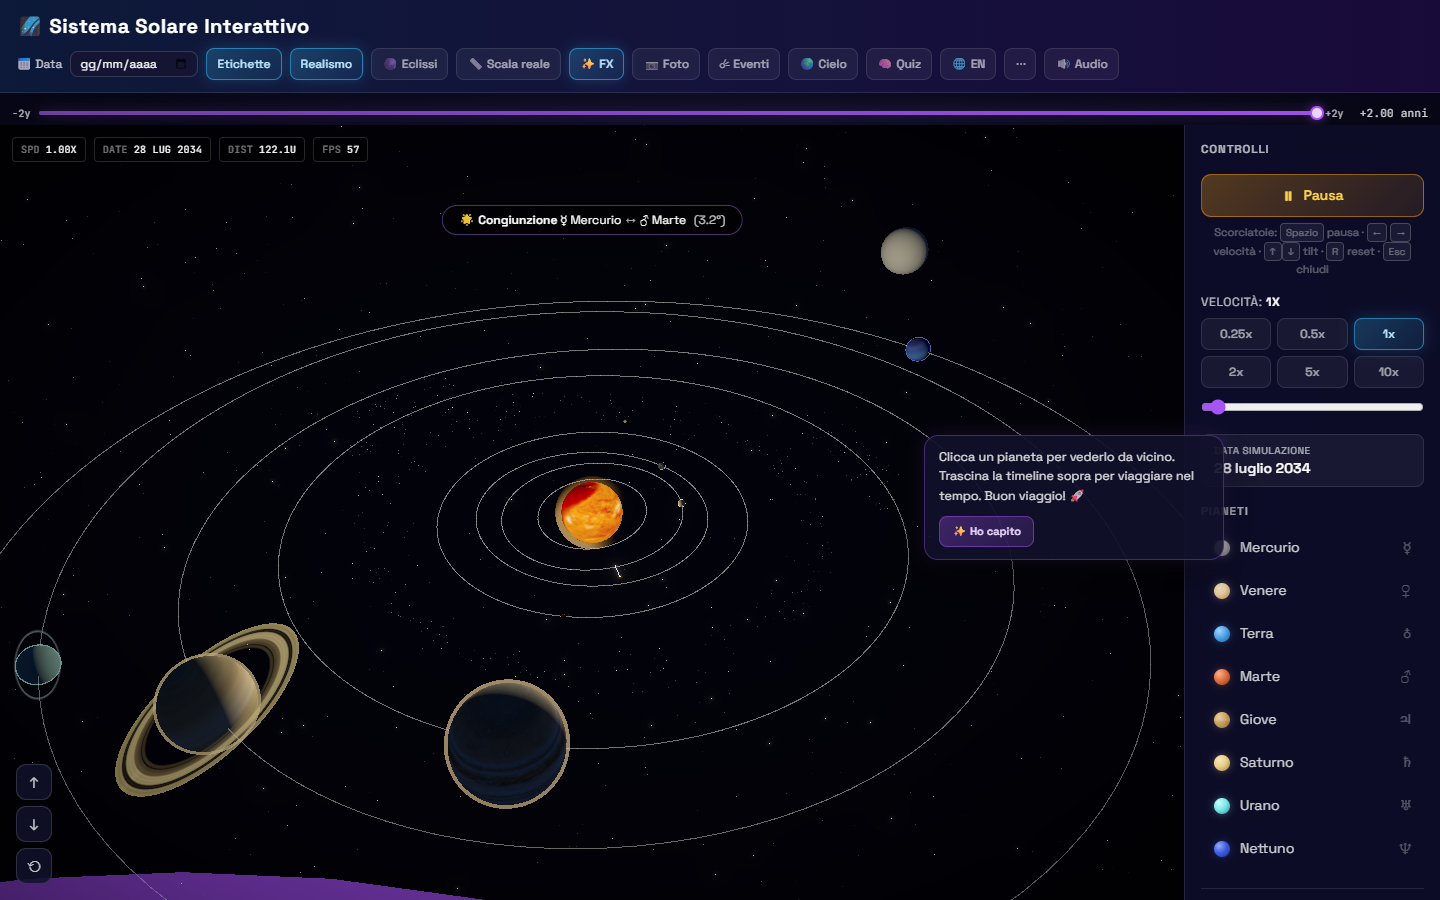
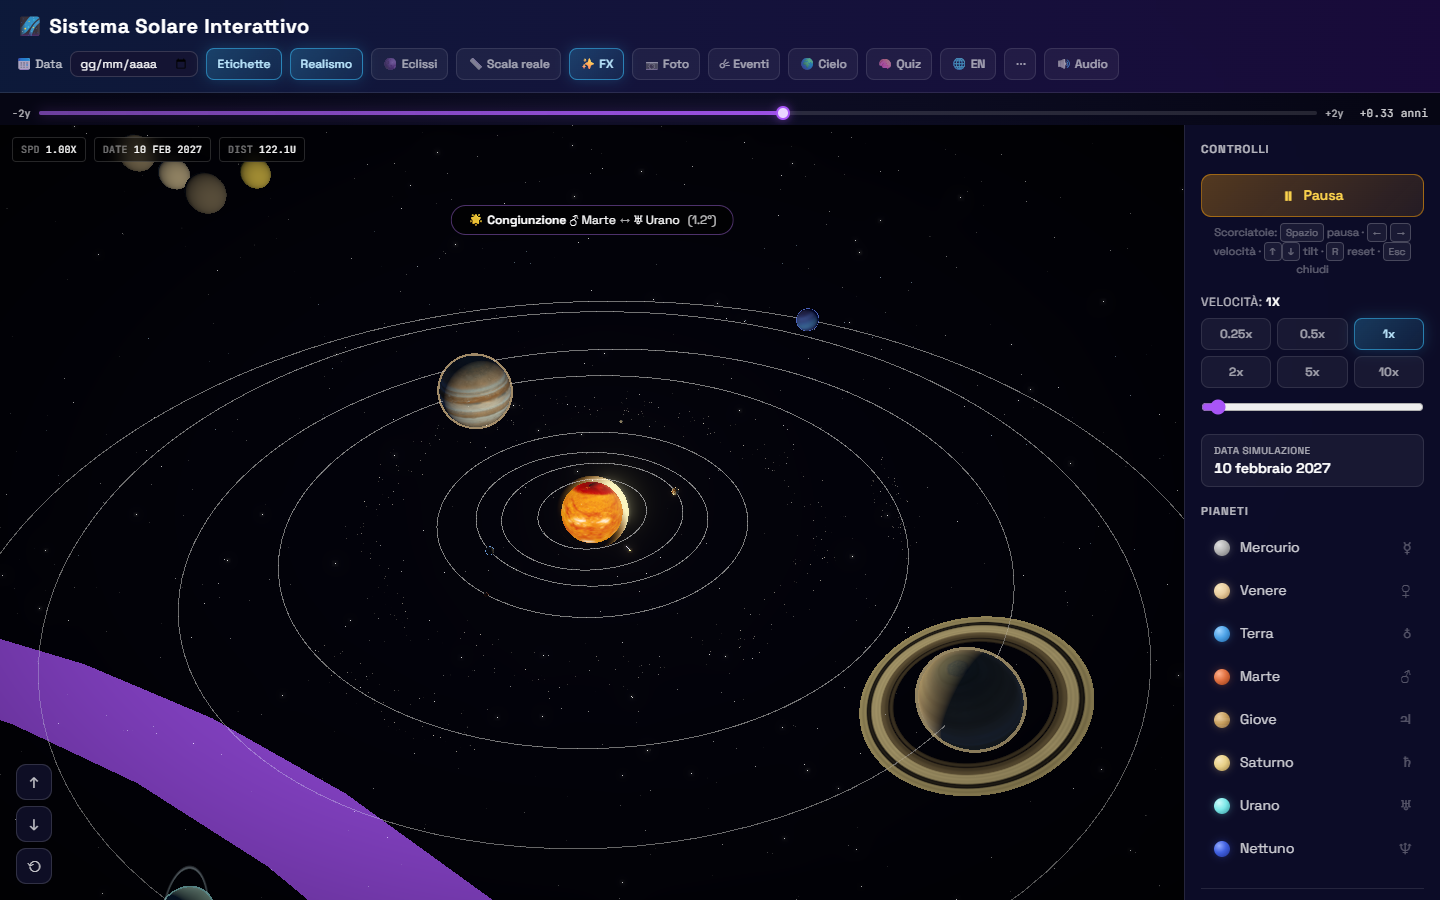
fix(ui): 4 miglioramenti UI (counter stabile, label satellites, FPS auto-hide, onboarding auto-dismiss)
- PlanetInfoPanel: la lista pianeti passata a useOrbitCounters è ora
  stabilizzata con useMemo. Prima, ogni render ricreava l'array literal,
  invalidava i deps dell'useEffect e resettava lastAngleRef → i counter
  orbite tornavano a 0 ad ogni cambio di tab.
- PlanetInfoPanel + i18n: 'Satelliti mostrati (N totali)' era scorretto
  per N=1. Aggiunte due chiavi i18n moonsShownOne/Many, selezionate
  in base al count, in IT e EN.
- TelemetryHUD: la badge FPS si auto-nasconde quando ≥ 30, appare solo
  se il frame rate resta basso per >1s (evita flicker su micro-stall).
  Riduce il rumore visivo dell'HUD in condizioni normali.
- OnboardingTip: auto-dismiss dopo 7s, in pausa se l'utente sta leggendo
  (mouse sopra). Il bottone 'Ho capito' resta la via esplicita.

Documentazione:
- Aggiornate le caption della galleria README per riflettere lo stato
  S15 (PlanetPicker custom, barra progresso quiz, FPS auto-hide, label
  satellites plurale corretto).
- Aggiornato conteggio test 180 → 298.
- Rigenerati i 6 screenshot principali in docs/images/.

diff --git a/src/scene/TelemetryHUD.tsx b/src/scene/TelemetryHUD.tsx
@@ -4,9 +4,16 @@
  * Mostra speed, data di simulazione, distanza camera dal Sole e FPS stimati.
  * I valori "live" (distanza, FPS) sono letti via ref aggiornati a 60Hz
  * dentro il <Canvas>, e rinfrescati qui a 2Hz per evitare flicker.
+ *
+ * S15 — la badge FPS si auto-nasconde quando il frame rate è OK (≥ 30).
+ * Appare solo se scende sotto soglia per >1s, per evitare il flicker su
+ * micro-stall. Riduce il rumore visivo in header (era sempre accesa).
  */
-import { useEffect, useReducer } from 'react';
+import { useEffect, useReducer, useRef, useState } from 'react';
 import type { MutableRefObject } from 'react';
+
+const FPS_LOW_THRESHOLD = 30;
+const FPS_LOW_HOLD_MS = 1000;
 
 export interface TelemetryHUDProps {
   speed: number;
@@ -39,6 +46,23 @@ export function TelemetryHUD({ speed, currentDate, cameraDistanceRef, fpsRef }: 
   });
   const speedAccent = speed >= 5 ? '#ff7e2e' : undefined;
 
+  // FPS basso persistente: la badge appare solo se fps < soglia per >1s.
+  const lowSinceRef = useRef<number | null>(null);
+  const [showFps, setShowFps] = useState(false);
+  useEffect(() => {
+    const now = performance.now();
+    if (fps > 0 && fps < FPS_LOW_THRESHOLD) {
+      if (lowSinceRef.current === null) lowSinceRef.current = now;
+      if (!showFps && now - (lowSinceRef.current ?? now) > FPS_LOW_HOLD_MS) setShowFps(true);
+    } else {
+      lowSinceRef.current = null;
+      if (showFps) setShowFps(false);
+    }
+    // showFps è volutamente escluso dai deps: il guard di uscita (sopra)
+    // usa il valore corrente di state e viene rivalutato ad ogni frame.
+    // eslint-disable-next-line react-hooks/exhaustive-deps
+  }, [fps]);
+
   return (
     <div
       className="pointer-events-none absolute top-3 left-3 z-10 flex gap-2 font-mono text-[10px] uppercase tracking-[0.18em]"
@@ -47,11 +71,13 @@ export function TelemetryHUD({ speed, currentDate, cameraDistanceRef, fpsRef }: 
       <HudBadge label="SPD" value={`${speed.toFixed(2)}x`} accent={speedAccent} />
       <HudBadge label="DATE" value={dateStr} />
       <HudBadge label="DIST" value={`${distance.toFixed(1)}u`} />
-      <HudBadge
-        label="FPS"
-        value={fps > 0 ? fps.toFixed(0) : '—'}
-        accent={fps > 0 && fps < 30 ? '#ff5252' : undefined}
-      />
+      {showFps && (
+        <HudBadge
+          label="FPS"
+          value={fps > 0 ? fps.toFixed(0) : '—'}
+          accent={fps > 0 && fps < 30 ? '#ff5252' : undefined}
+        />
+      )}
     </div>
   );
 }

diff --git a/src/components/PlanetInfoPanel.tsx b/src/components/PlanetInfoPanel.tsx
@@ -1,4 +1,4 @@
-import { useEffect, useRef, useReducer, useState, useCallback } from 'react';
+import { useEffect, useRef, useReducer, useState, useCallback, useMemo } from 'react';
 import type { PlanetData } from '../data/planets';
 import { formatNumber, formatOrbitalPeriod } from '../utils/format';
 import { useOrbitCounters, type OrbitCountersRef } from '../hooks/useOrbitCounters';
@@ -60,16 +60,15 @@ export default function PlanetInfoPanel({ planet, onClose, positionsRef, onQuizR
     origY: number;
   } | null>(null);
 
-  const orbitCountersRef: OrbitCountersRef = useOrbitCounters(positionsRef, [
-    'Mercury',
-    'Venus',
-    'Earth',
-    'Mars',
-    'Jupiter',
-    'Saturn',
-    'Uranus',
-    'Neptune',
-  ]);
+  // Lista pianeti stabile: passata al hook useOrbitCounters, che la mette
+  // nei deps dell'effect. Se creassimo un array nuovo a ogni render,
+  // l'rAF loop verrebbe cancellato e `lastAngleRef` resettato → i counter
+  // tornerebbero a 0 ogni volta che si cambia tab o si rende il pannello.
+  const allBodyNames = useMemo(
+    () => ['Mercury', 'Venus', 'Earth', 'Mars', 'Jupiter', 'Saturn', 'Uranus', 'Neptune'],
+    []
+  );
+  const orbitCountersRef: OrbitCountersRef = useOrbitCounters(positionsRef, allBodyNames);
   const [, force] = useReducer((x: number) => x + 1, 0);
   useEffect(() => {
     const id = setInterval(() => force(), 2000);
@@ -296,7 +295,10 @@ export default function PlanetInfoPanel({ planet, onClose, positionsRef, onQuizR
             <StatRow label="Inclinazione assiale" value={`${planet.axialTilt}°`} />
             <StatRow label="Eccentricità orbita" value={planet.eccentricity.toFixed(4)} />
             <StatRow
-              label={`Satelliti mostrati (${planet.facts.moonsCount} totali)`}
+              label={t(
+                planet.facts.moonsCount === 1 ? 'panel.moonsShownOne' : 'panel.moonsShownMany',
+                { count: planet.facts.moonsCount }
+              )}
               value={
                 planet.moons.length > 0 ? planet.moons.map((m) => m.name).join(', ') : 'Nessuno'
               }

diff --git a/src/components/OnboardingTip.tsx b/src/components/OnboardingTip.tsx
@@ -3,12 +3,17 @@
  * l'intro, per suggerire le interazioni principali. Persistente in
  * localStorage: una volta chiuso non ricompare finché l'utente non
  * resetta le preferenze.
+ *
+ * S15 — auto-dismiss dopo 7s per ridurre l'occupazione visiva (l'utente
+ * può comunque chiuderlo subito col bottone "Ho capito"). Se l'utente
+ * passa il mouse sopra, il timer si mette in pausa (interazione > lettura).
  */
-import { useEffect, useState } from 'react';
+import { useEffect, useRef, useState } from 'react';
 import { useT } from '../i18n';
 import { loadJSON, saveJSON } from '../utils/prefs';
 
 const STORAGE_KEY = 'solarsys.onboarded';
+const AUTO_DISMISS_MS = 7000;
 
 export interface OnboardingTipProps {
   /** Mostra il tip. Default true. */
@@ -37,12 +42,28 @@ export function OnboardingTip({
 }: OnboardingTipProps) {
   const t = useT();
   const [visible, setVisible] = useState(false);
+  const [hovered, setHovered] = useState(false);
+  const autoTimerRef = useRef<ReturnType<typeof setTimeout> | null>(null);
 
   useEffect(() => {
     if (!show) return;
     if (loadJSON<boolean>(STORAGE_KEY, false)) return;
     setVisible(true);
   }, [show]);
+
+  // Auto-dismiss dopo AUTO_DISMISS_MS, in pausa se l'utente sta leggendo
+  // (mouse sopra). Il timer si resetta al passaggio hover ↔ leave.
+  useEffect(() => {
+    if (!visible || hovered) return;
+    autoTimerRef.current = setTimeout(() => {
+      saveJSON(STORAGE_KEY, true);
+      setVisible(false);
+      onDismiss?.();
+    }, AUTO_DISMISS_MS);
+    return () => {
+      if (autoTimerRef.current) clearTimeout(autoTimerRef.current);
+    };
+  }, [visible, hovered, onDismiss]);
 
   if (!visible) return null;
 
@@ -58,6 +79,8 @@ export function OnboardingTip({
       data-side={side}
       style={{ top, left, right, bottom }}
       role="status"
+      onMouseEnter={() => setHovered(true)}
+      onMouseLeave={() => setHovered(false)}
     >
       <div>{text}</div>
       <button className="onboard-tip-close" onClick={dismiss} aria-label={t('onboarding.close')}>

diff --git a/src/i18n/dict.ts b/src/i18n/dict.ts
@@ -90,7 +90,11 @@ const it: Record<string, string> = {
   'panel.orbitsOf': 'Orbite di {name}',
   'panel.orbitsTotal': 'Orbite totali (tutti i corpi)',
   'panel.noMoons': 'Nessuno',
-  'panel.moonsShown': 'Satelliti mostrati ({count} totali)',
+  // "Satelliti mostrati (N totale)" vs "(N totali)" — forma singolare/plurale
+  // selezionata in PlanetInfoPanel in base al count, non da un generico i18n
+  // pluralRules (il dizionario è piatto per semplicità).
+  'panel.moonsShownOne': 'Satellite mostrato ({count} totale)',
+  'panel.moonsShownMany': 'Satelliti mostrati ({count} totali)',
   'panel.description': 'Descrizione',
 
   // Confronto
@@ -271,7 +275,8 @@ const en: Record<string, string> = {
   'panel.orbitsOf': 'Orbits of {name}',
   'panel.orbitsTotal': 'Total orbits (all bodies)',
   'panel.noMoons': 'None',
-  'panel.moonsShown': 'Moons shown ({count} total)',
+  'panel.moonsShownOne': 'Moon shown ({count} total)',
+  'panel.moonsShownMany': 'Moons shown ({count} total)',
   'panel.description': 'Description',
 
   // Compare

diff --git a/README.md b/README.md
@@ -8,7 +8,7 @@ Una simulazione interattiva del sistema solare costruita con **React 19**, **Typ
 
 ![Hero](docs/images/01-home.png)
 
-Otto pianeti in orbita keplariana attorno al Sole, timeline interattiva in alto, sidebar controlli laterale, header compatto con chip toggle (Etichette, Realismo, Eclissi, Scala reale, FX, Quiz, Foto, Audio), banner congiunzione.
+Otto pianeti in orbita keplariana attorno al Sole, timeline interattiva in alto, sidebar controlli laterale, header compatto con chip toggle (Etichette, Realismo, Eclissi, Scala reale, FX, Quiz, Foto, Audio), banner congiunzione. L'HUD telemetria (SPD / DATE / DIST) è sempre visibile; la badge FPS si auto-attiva solo se il frame rate scende sotto i 30 FPS per più di 1s (riduce il rumore visivo).
 
 ### Modalità realismo + eclissi
 
@@ -20,25 +20,25 @@ Texture NASA 2K, 12 lune orbitanti (Terra, Marte×2, Giove×4, Saturno×2, Urano
 
 ![Planet info](docs/images/03-planet-info.png)
 
-Quattro tab (Dati / Atmosfera / Missioni / Curiosità), statistiche live: orbite completate nella sessione, composizione atmosfera, missioni spaziali, drag-and-drop per riposizionare. Linea scan "strumentazione di bordo" ogni 6s.
+Quattro tab (Dati / Atmosfera / Missioni / Curiosità), statistiche live: orbite completate nella sessione (counter stabile, non si resetta al cambio tab), composizione atmosfera, missioni spaziali, drag-and-drop per riposizionare. Linea scan "strumentazione di bordo" ogni 6s. Label "Satelliti mostrati (N totale/totali)" con forma singolare/plurale corretta.
 
 ### Confronto pianeti
 
 ![Compare](docs/images/04-compare.png)
 
-Selettori dropdown, tabella con righe comparative (diametro, distanza, periodo, lune, temperatura), valore maggiore in verde, scale comparative animate.
+Selettori custom in tema dark (PlanetPicker) con il colore del pianeta per opzione, tabella con righe comparative (diametro, distanza dal Sole, anno planetario, gravità, velocità orbitale media, lune) e barre proporzionali animate, valore maggiore in verde, rapporto dimensioni finale.
 
 ### Quiz spaziale
 
 ![Quiz](docs/images/05-quiz.png)
 
-Domande a risposta multipla generate dal dataset. Counter "Prossima domanda →" alla fine di ogni step.
+Domande a risposta multipla generate dal dataset, con barra di progresso visiva (gradiente viola→rosa) e contatore "1/5". Tre livelli di difficoltà (Facile/Media/Difficile), best score persistito per livello, modalità "focus" su un singolo pianeta dal pannello info.
 
 ### Mobile: scena a tutto schermo + FAB
 
 ![Mobile home](docs/images/06-mobile.png)
 
-Su mobile (< 1024px) la sidebar si chiude in una bottom sheet richiamabile col FAB "☰ Controlli". La scena 3D occupa tutto lo schermo. Chip secondari (Etichette, Realismo, Eclissi, Scala reale, FX) si nascondono sotto 640px e confluiscono nel menu "⋯".
+Su mobile (< 1024px) la sidebar si chiude in una bottom sheet richiamabile col FAB "≡ Controlli". La scena 3D occupa tutto lo schermo. Chip secondari (Etichette, Realismo, Eclissi, Scala reale, FX) si nascondono sotto 640px e confluiscono nel menu "⋯".
 
 ### Mobile: bottom sheet controlli
 
@@ -144,7 +144,7 @@ Scomposizione dei componenti visivi: Sole (limb darkening + corona), Pianeti (al
 | Styling | Tailwind CSS 4 + CSS custom (animazioni, shader, mobile sheet) |
 | State | Zustand 5 + custom hooks |
 | PWA | Service worker + manifest |
-| Test | Vitest 4 + Testing Library 16 + jsdom 30 (180 test) |
+| Test | Vitest 4 + Testing Library 16 + jsdom 30 (298 test) |
 | Qualità | ESLint 10, Prettier, TypeScript-ESLint 8, GitHub Actions CI |
 | Screenshot docs | Playwright (script `scripts/screenshots.mjs`) |
 
@@ -160,7 +160,7 @@ npm run preview    # anteprima della build di produzione
 ### Script utili
 
 ```bash
-npm test              # suite Vitest (unit + integrazione, 180 test)
+npm test              # suite Vitest (unit + integrazione, 298 test)
 npm run test:coverage # coverage dei test
 npm run lint          # ESLint
 npm run format        # Prettier --write
